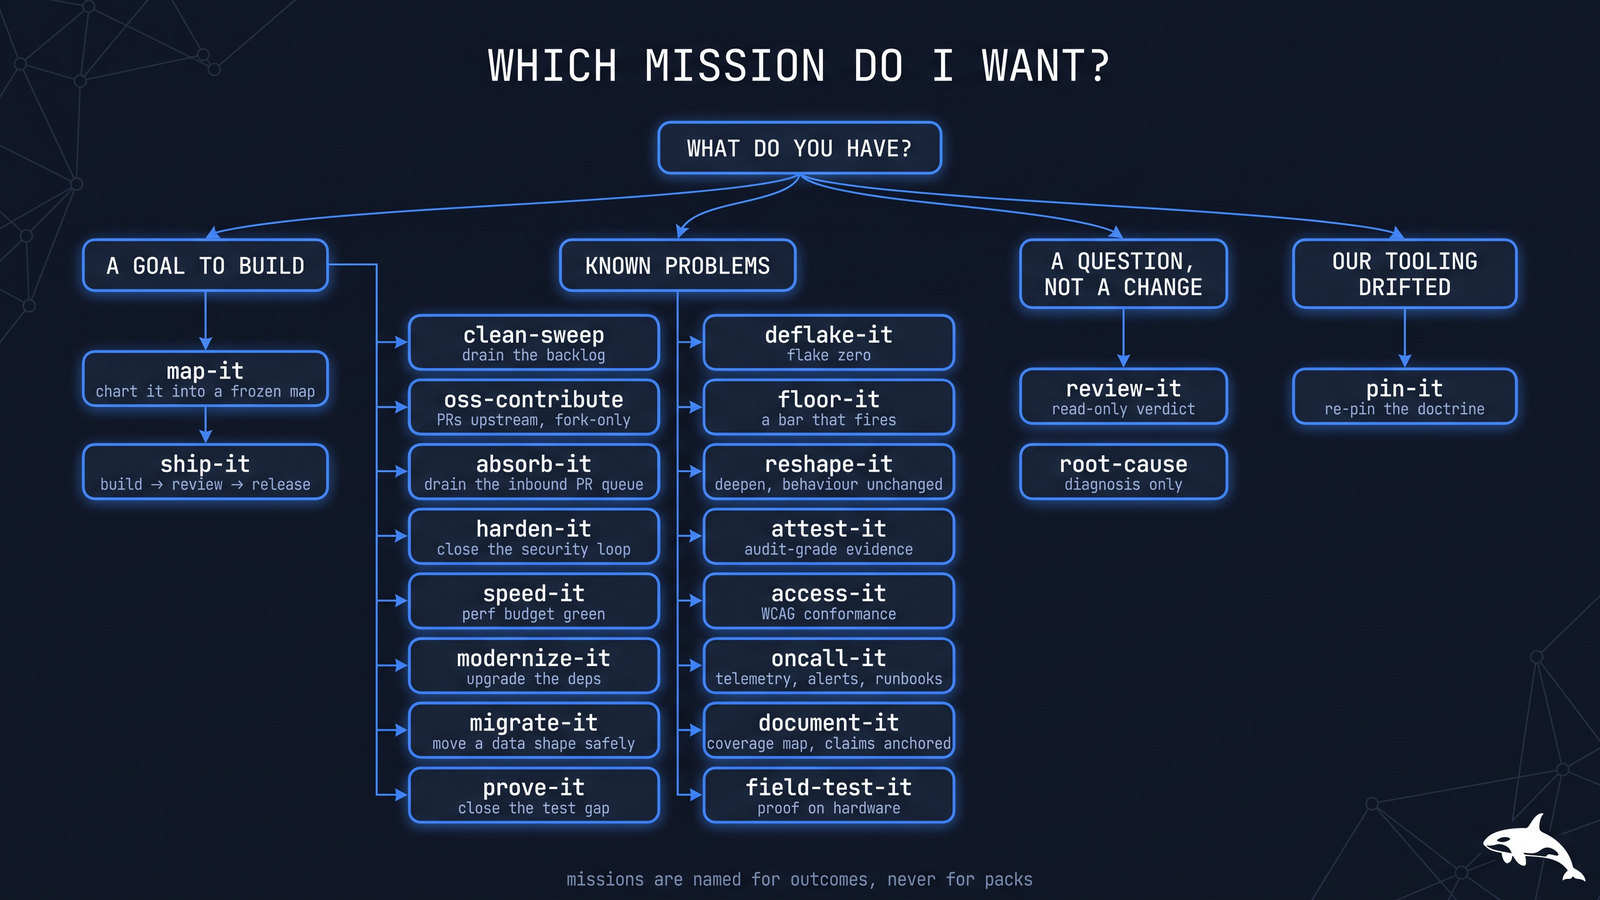
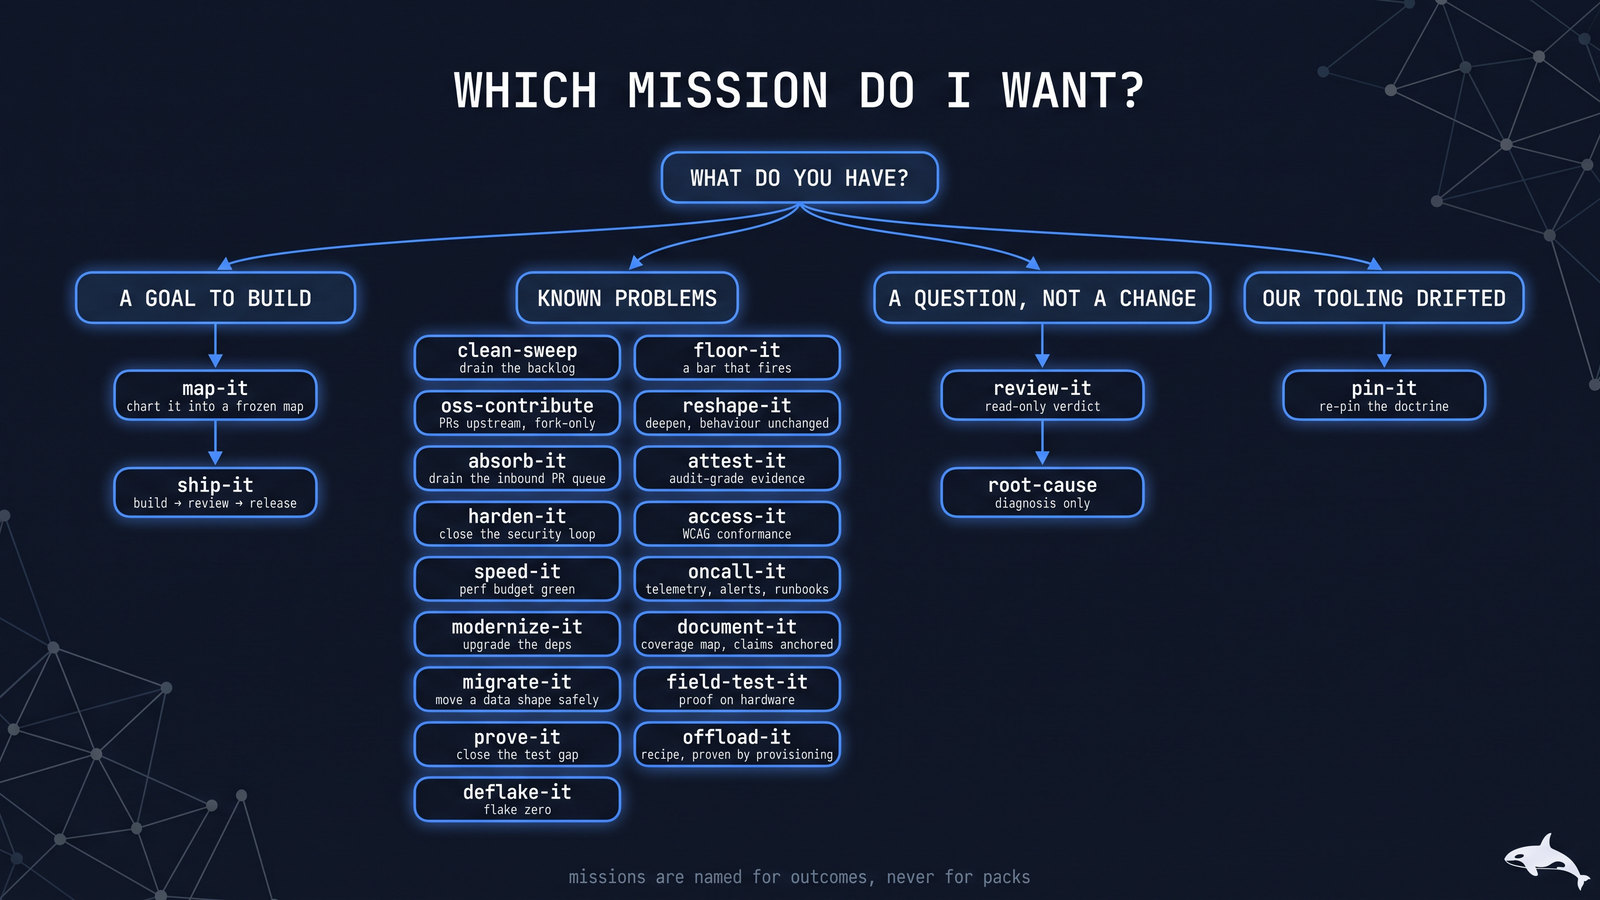
chore: regen mission diagrams, badges, load tables, wire docs

diff --git a/assets/diagrams/generator/specs.py b/assets/diagrams/generator/specs.py
@@ -131,7 +131,7 @@ Title, centred at the top: WHICH MISSION DO I WANT?
 Root box centred beneath the title: WHAT DO YOU HAVE?
 Four branches fan out from the root into four columns, each headed by a category box.
 Column 1 head: A GOAL TO BUILD. Beneath it two boxes joined by a down arrow:  map-it (caption: chart it into a frozen map)  then  ship-it (caption: build → review → release).
-Column 2 head: KNOWN PROBLEMS. Beneath it a grid of sixteen boxes, two columns of eight, in this order:
+Column 2 head: KNOWN PROBLEMS. Beneath it a grid of seventeen boxes, two columns of nine and eight, in this order:
 clean-sweep (caption: drain the backlog)
 oss-contribute (caption: PRs upstream, fork-only)
 absorb-it (caption: drain the inbound PR queue)
@@ -148,6 +148,7 @@ access-it (caption: WCAG conformance)
 oncall-it (caption: telemetry, alerts, runbooks)
 document-it (caption: coverage map, claims anchored)
 field-test-it (caption: proof on hardware)
+offload-it (caption: recipe, proven by provisioning)
 Column 3 head: A QUESTION, NOT A CHANGE. Beneath it two boxes:  review-it (caption: read-only verdict)  and  root-cause (caption: diagnosis only).
 Column 4 head: OUR TOOLING DRIFTED. Beneath it one box:  pin-it (caption: re-pin the doctrine).
 Footer, small, centred: missions are named for outcomes, never for packs"""},

diff --git a/assets/diagrams/generator/specs_missions.py b/assets/diagrams/generator/specs_missions.py
@@ -199,4 +199,12 @@ m("document-it", "every public-surface cell filled, every claim anchored",
   "a page per cell with every claim anchored · rename-control transcripts · the coverage map re-derived at the final head",
   "never inventing a why, never rewriting a diagram",
   "EXTRACT → MAP → FREEZE → WRITE → CLAIM-VERIFY → REVIEW → LAND → RE-MAP"),
+
+m("offload-it", "a recipe that provisions, proven by provisioning",
+  "a repo, plus provider and agent accounts",
+  "each paid checkpoint · the interactive agent login",
+  [("OFFLOADED", G), ("OFFLOADED-WITH-PARKED", A)],
+  "a wired recipe · a clear doctor transcript · an enacted provision transcript",
+  "money and login stay human — no paid step without an explicit OK",
+  "INSPECT → INTERVIEW → SCAFFOLD → SNAPSHOT → WIRE → DOCTOR → PROVISION"),
 ]

diff --git a/ARCHITECTURE.md b/ARCHITECTURE.md
@@ -181,11 +181,11 @@ change in what a coordinator reads at activation, not a relabelling. Where they 
 
 | Mission | Activation load | Headroom to the cap |
 |---|---|---|
-| `oncall-it` | ~34,000 | ~0 |
-| `clean-sweep` | ~33,700 | ~300 |
-| `oss-contribute` | ~33,500 | ~500 |
+| `oss-contribute` | ~33,800 | ~200 |
+| `field-test-it` | ~33,800 | ~200 |
+| `absorb-it` | ~33,800 | ~200 |
 
-The cap is **34,000**. The lightest mission, `root-cause`, is ~18,400, so the whole catalog sits in a ~15,600-token band.
+The cap is **34,000**. The lightest mission, `offload-it`, is ~14,700, so the whole catalog sits in a ~19,200-token band.
 <!-- END GENERATED: activation-load -->
 
 That table is generated by `scripts/gen-badges.py` and its freshness is a CI gate. It used to be
